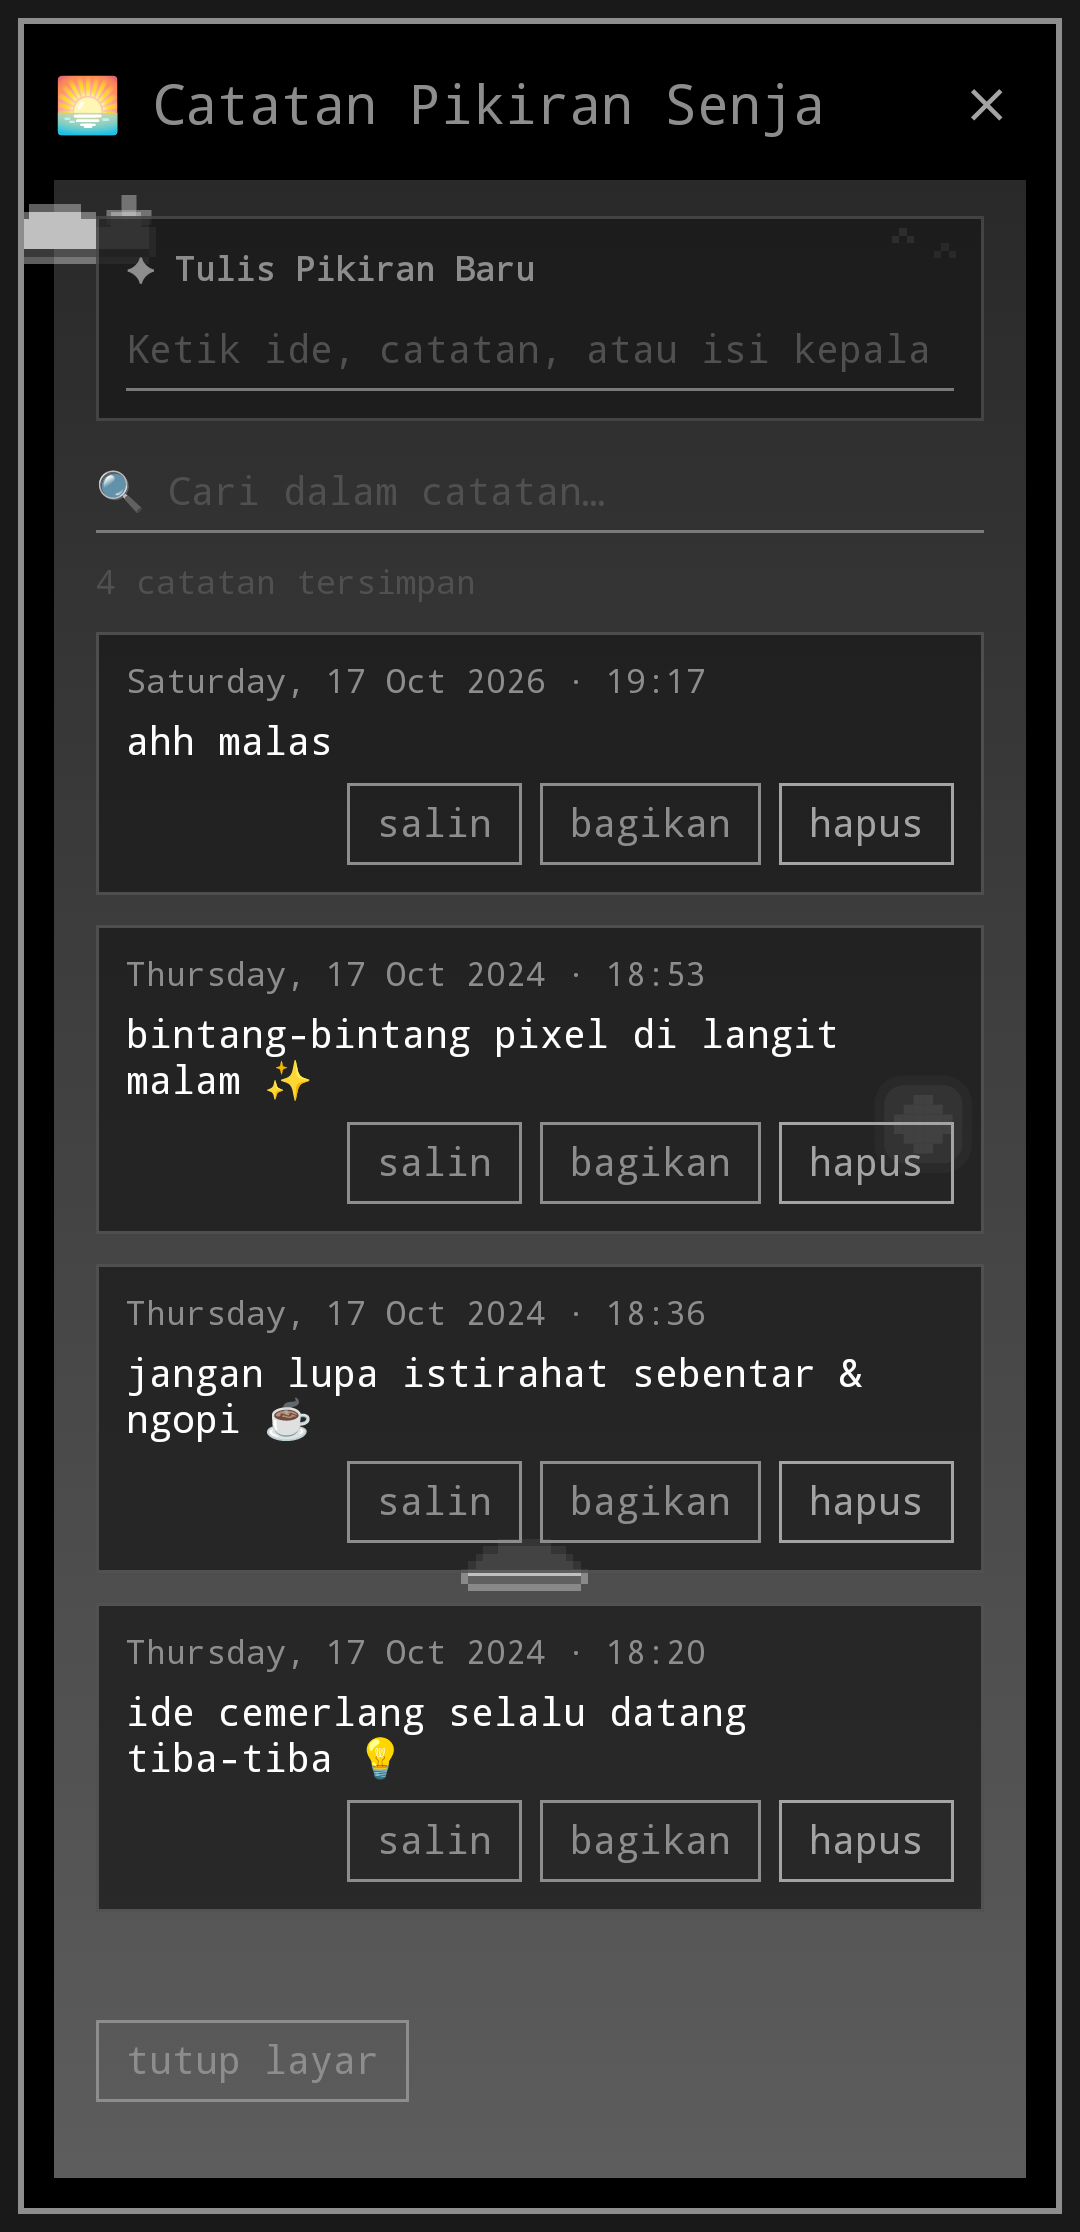
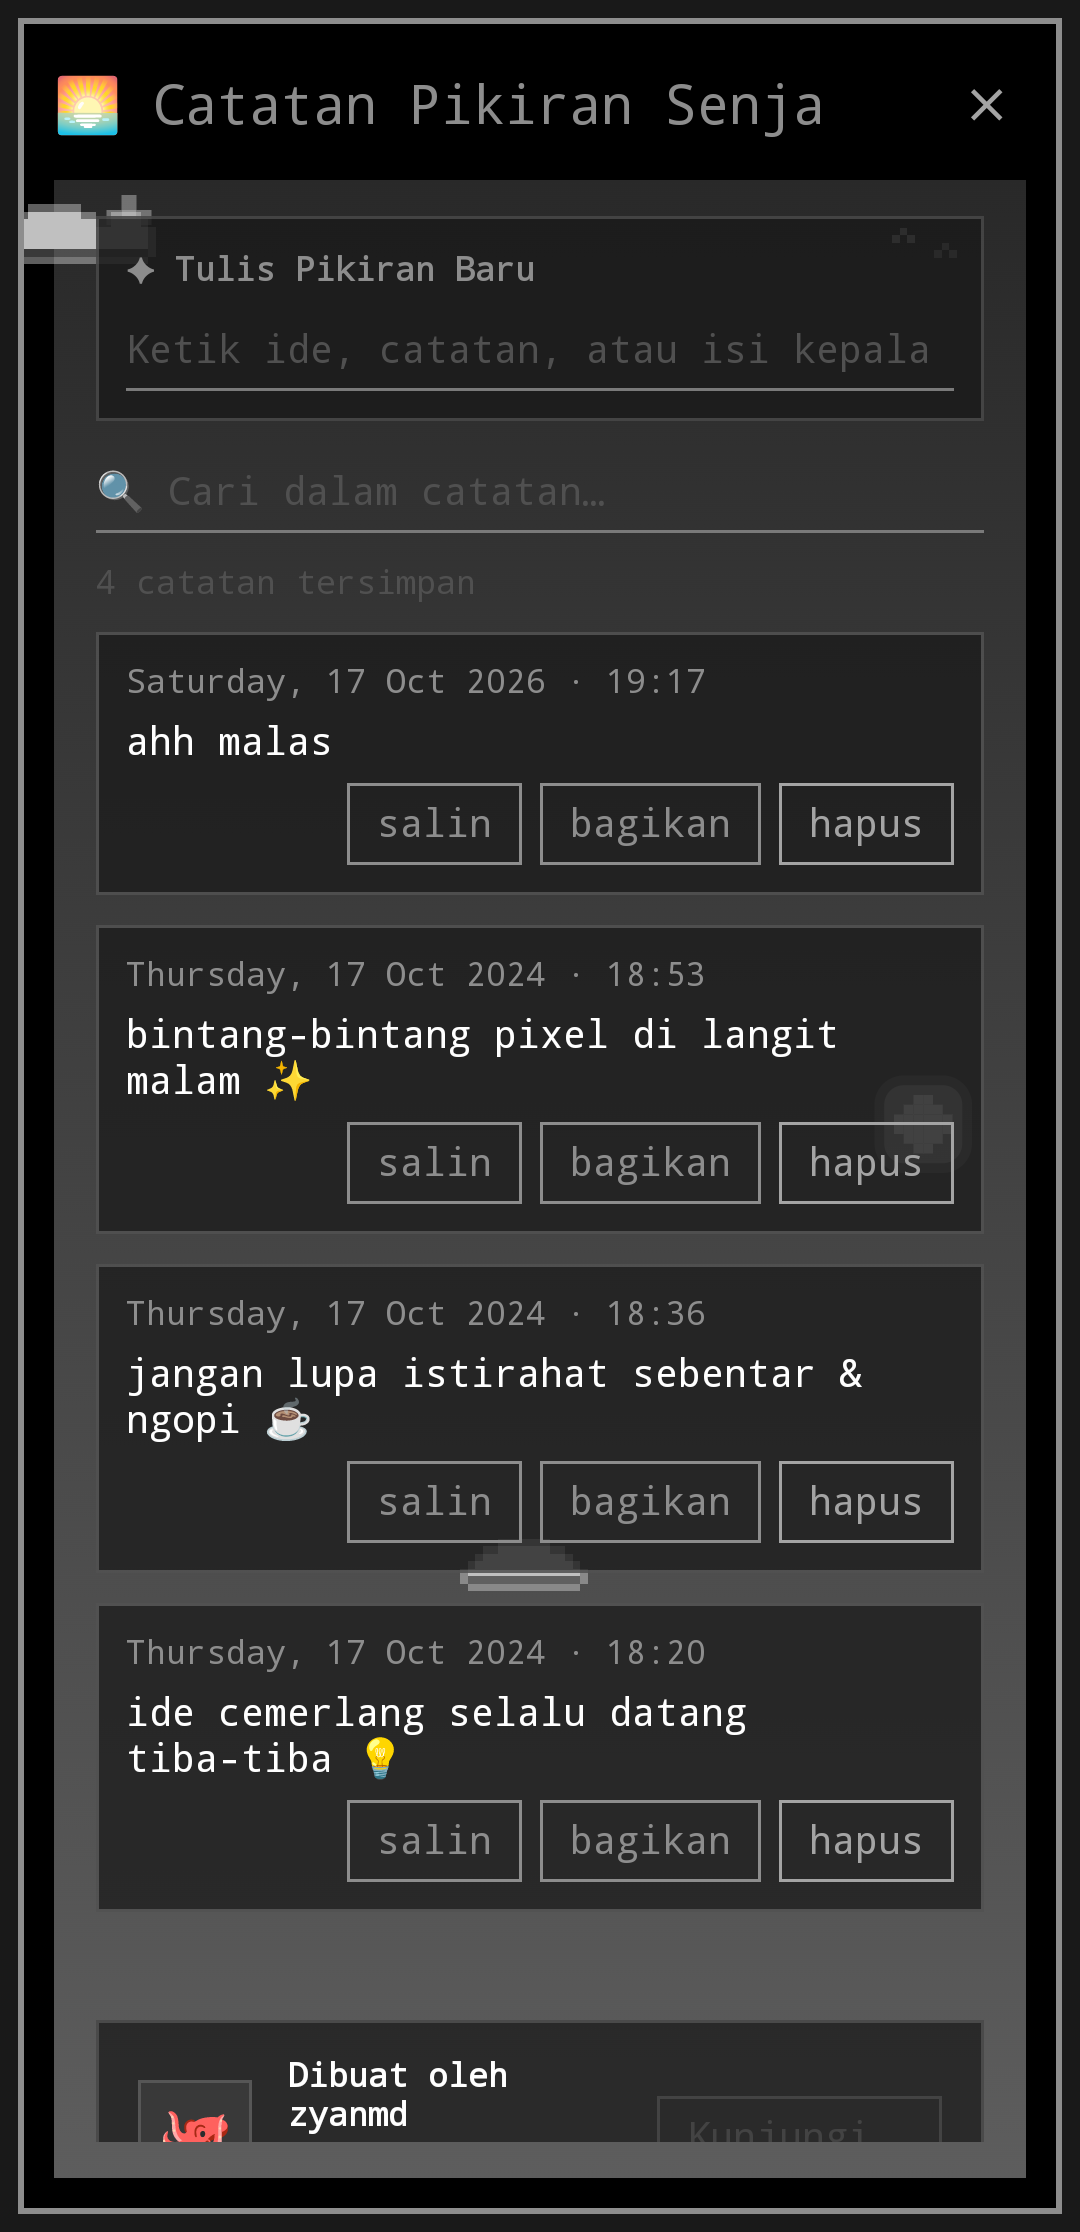
feat: add author credit card and acknowledgments matching photo widget

Changed region(s): [[0.0917, 0.8965, 0.9167, 0.9583]]

diff --git a/README.md b/README.md
@@ -62,6 +62,24 @@ Widget akan langsung muncul di home screen ponsel Anda dalam hitungan detik!
 
 ---
 
-## 📄 Lisensi
+## 🛠 Persyaratan Sistem
 
-Proyek ini dilisensikan di bawah [MIT License](LICENSE) © 2026 [zyanmd](https://github.com/zyanmd).
+- **Omalauncher**: OWL 8
+- **Paket Pacman**: `jq` (otomatis diminta via deklarasi `requires`)
+
+---
+
+## 👨💻 Pembuat & Lisensi
+
+Dibuat dengan ❤ oleh [zyanmd](https://github.com/zyanmd).
+
+Didistribusikan di bawah lisensi [MIT](LICENSE).
+
+---
+
+## 💖 Ucapan Terima Kasih & Kredit
+
+- **[Simon Schubert](https://github.com/SimonSchubert)** atas pembuatan launcher & ekosistem [Omalauncher / Omarchy](https://github.com/SimonSchubert/omarchy-widgets).
+- Terinspirasi dari konsep meditasi dan visualisasi pikiran mengambang [Pixel Thoughts](https://www.pixelthoughts.co/).
+- Komunitas dan pembuat tema-tema indah di Omalauncher.
+
